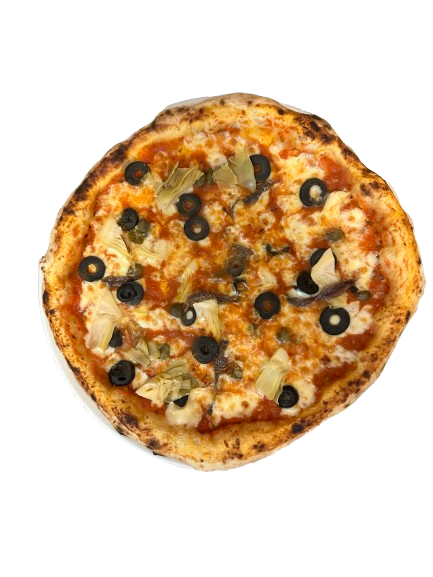
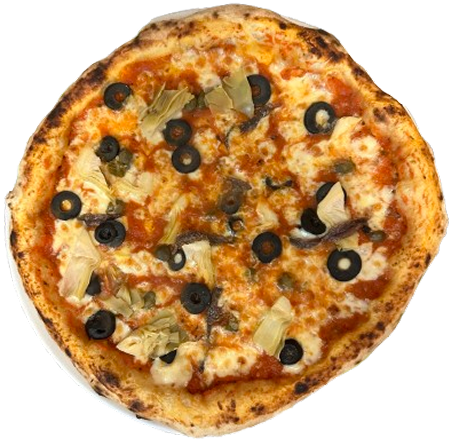
filteredList in recommended section

diff --git a/lib/Pages/home_page.dart b/lib/Pages/home_page.dart
@@ -1,5 +1,3 @@
-import 'dart:math';
-
 import 'package:flutter/cupertino.dart';
 import 'package:flutter/material.dart';
 import 'package:google_fonts/google_fonts.dart';
@@ -29,7 +27,7 @@ class _HomePageState extends State<HomePage> with TickerProviderStateMixin {
     WidgetsBinding.instance.addPostFrameCallback((_) {
       final viewModelMenu = context.read<ViewmodelMenu>();
       viewModelMenu.getCategoriesFromFoods(viewModelMenu.menuList);
-      viewModelMenu.loadMenuFromCategory(CategoryEnum.recommend.label);
+      viewModelMenu.loadMenuFromCategory(CategoryEnum.chicken.label);
     });
 
     _animationController = AnimationController(
@@ -159,7 +157,14 @@ class _HomePageState extends State<HomePage> with TickerProviderStateMixin {
               rotationAnimation: _animation,
               largeTitle: 'Recommended',
 
-              menuList: viewModelMenu.menuList,
+              menuList:
+                  viewModelMenu
+                      .menuList //filtered list by category
+                      .where(
+                        (element) =>
+                            element.category.name == CategoryEnum.chicken.label,
+                      )
+                      .toList(),
               onItemTap: (selectedItem) {
                 Navigator.of(context).push(
                   CupertinoPageRoute(
@@ -178,99 +183,106 @@ class _HomePageState extends State<HomePage> with TickerProviderStateMixin {
                   NeverScrollableScrollPhysics(), // <- verhindert doppeltes Scrollen
               itemBuilder: (context, index) {
                 final filteredItem = viewModelMenu.filteredList[index];
-                return Padding(
-                  //TODO:  heir weiter machen um zur detailpage zu navigieren!
-                  padding: const EdgeInsets.symmetric(
-                    vertical: 8.0,
-                    horizontal: 20,
-                  ),
-                  child: Container(
-                    decoration: BoxDecoration(
-                      color: AppColors.secondary.withValues(alpha: 0.1),
-                      borderRadius: BorderRadius.circular(10),
-                      border: Border.all(
-                        width: 1,
-                        color: AppColors.primaryButton.withValues(alpha: 0.9),
+                return GestureDetector(
+                  onTap:
+                      () => Navigator.of(context).push(
+                        CupertinoPageRoute(
+                          builder: (context) => DetailPage(item: filteredItem),
+                        ),
                       ),
+                  child: Padding(
+                    padding: const EdgeInsets.symmetric(
+                      vertical: 8.0,
+                      horizontal: 20,
                     ),
-                    padding: EdgeInsets.all(20),
-                    child: Row(
-                      mainAxisAlignment: MainAxisAlignment.spaceBetween,
-                      children: [
-                        Stack(
-                          alignment: Alignment.center,
-                          children: [
-                            SizedBox(
-                              width: 60,
-                              height: 60,
-                              child:
-                                  filteredItem.category.name !=
-                                          CategoryEnum.drinks.label
-                                      ? Image.asset("lib/img/plate.png")
-                                      : Container(
-                                        decoration: BoxDecoration(
-                                          color: Colors.transparent,
-                                          borderRadius: BorderRadius.circular(
-                                            4,
-                                          ),
-                                          border: Border.all(
-                                            width: 1,
-                                            color: Colors.black.withValues(
-                                              alpha: 0.6,
+                    child: Container(
+                      decoration: BoxDecoration(
+                        color: AppColors.secondary.withValues(alpha: 0.1),
+                        borderRadius: BorderRadius.circular(10),
+                        border: Border.all(
+                          width: 1,
+                          color: AppColors.primaryButton.withValues(alpha: 0.9),
+                        ),
+                      ),
+                      padding: EdgeInsets.all(20),
+                      child: Row(
+                        mainAxisAlignment: MainAxisAlignment.spaceBetween,
+                        children: [
+                          Stack(
+                            alignment: Alignment.center,
+                            children: [
+                              SizedBox(
+                                width: 60,
+                                height: 60,
+                                child:
+                                    filteredItem.category.name !=
+                                            CategoryEnum.drinks.label
+                                        ? Image.asset("lib/img/plate.png")
+                                        : Container(
+                                          decoration: BoxDecoration(
+                                            color: Colors.transparent,
+                                            borderRadius: BorderRadius.circular(
+                                              4,
+                                            ),
+                                            border: Border.all(
+                                              width: 1,
+                                              color: Colors.black.withValues(
+                                                alpha: 0.6,
+                                              ),
                                             ),
                                           ),
                                         ),
-                                      ),
-                            ),
-                            SizedBox(
-                              width: 50,
-                              height: 50,
-                              child: Image.asset(
-                                filteredItem.imgAsset ??
-                                    "lib/img/logo_ykos.png",
                               ),
-                            ),
-                          ],
-                        ),
-                        Column(
-                          crossAxisAlignment: CrossAxisAlignment.start,
-                          children: [
-                            SizedBox(
-                              width: 200,
-                              child: Text(
-                                '${filteredItem.name} ',
-                                style: GoogleFonts.inter(
-                                  color: AppColors.primaryButton,
-                                  fontSize: 13,
-                                  fontWeight: FontWeight.w600,
+                              SizedBox(
+                                width: 50,
+                                height: 50,
+                                child: Image.asset(
+                                  filteredItem.imgAsset ??
+                                      "lib/img/logo_ykos.png",
                                 ),
-                                softWrap: true,
                               ),
-                            ),
-                            Row(
-                              children: [
-                                Padding(
-                                  padding: const EdgeInsets.only(top: 5.0),
-                                  child: Text(
-                                    filteredItem.price.toEuroString(),
-                                    style: GoogleFonts.inter(
-                                      color: AppColors.primaryButton,
-                                      fontSize: 13,
-                                      fontWeight: FontWeight.w600,
-                                    ),
-                                    softWrap: true,
+                            ],
+                          ),
+                          Column(
+                            crossAxisAlignment: CrossAxisAlignment.start,
+                            children: [
+                              SizedBox(
+                                width: 200,
+                                child: Text(
+                                  '${filteredItem.name} ',
+                                  style: GoogleFonts.inter(
+                                    color: AppColors.primaryButton,
+                                    fontSize: 13,
+                                    fontWeight: FontWeight.w600,
                                   ),
+                                  softWrap: true,
                                 ),
-                              ],
-                            ),
-                          ],
-                        ),
-                        Icon(
-                          Icons.arrow_forward_ios,
-                          color: AppColors.primaryButton,
-                          size: 16,
-                        ),
-                      ],
+                              ),
+                              Row(
+                                children: [
+                                  Padding(
+                                    padding: const EdgeInsets.only(top: 5.0),
+                                    child: Text(
+                                      filteredItem.price.toEuroString(),
+                                      style: GoogleFonts.inter(
+                                        color: AppColors.primaryButton,
+                                        fontSize: 13,
+                                        fontWeight: FontWeight.w600,
+                                      ),
+                                      softWrap: true,
+                                    ),
+                                  ),
+                                ],
+                              ),
+                            ],
+                          ),
+                          Icon(
+                            Icons.arrow_forward_ios,
+                            color: AppColors.primaryButton,
+                            size: 16,
+                          ),
+                        ],
+                      ),
                     ),
                   ),
                 );

diff --git a/lib/repository/food_repository.dart b/lib/repository/food_repository.dart
@@ -228,13 +228,13 @@ class FoodRepository {
       Extra(
         name: "Salami",
         price: 2.0,
-        extraCategory: CategoryEnum.recommend,
+        extraCategory: CategoryEnum.pizza,
         anzahl: 0,
       ),
       Extra(
         name: "Schinken",
         price: 2.0,
-        extraCategory: CategoryEnum.recommend,
+        extraCategory: CategoryEnum.pizza,
         anzahl: 0,
       ),
       Extra(

diff --git a/lib/viewmodel/viewmodel_menu.dart b/lib/viewmodel/viewmodel_menu.dart
@@ -1,5 +1,3 @@
-import 'dart:math';
-
 import 'package:flutter/material.dart';
 import 'package:ykos_bbq_chicken/enum/category_enum.dart';
 import 'package:ykos_bbq_chicken/model/category.dart';
